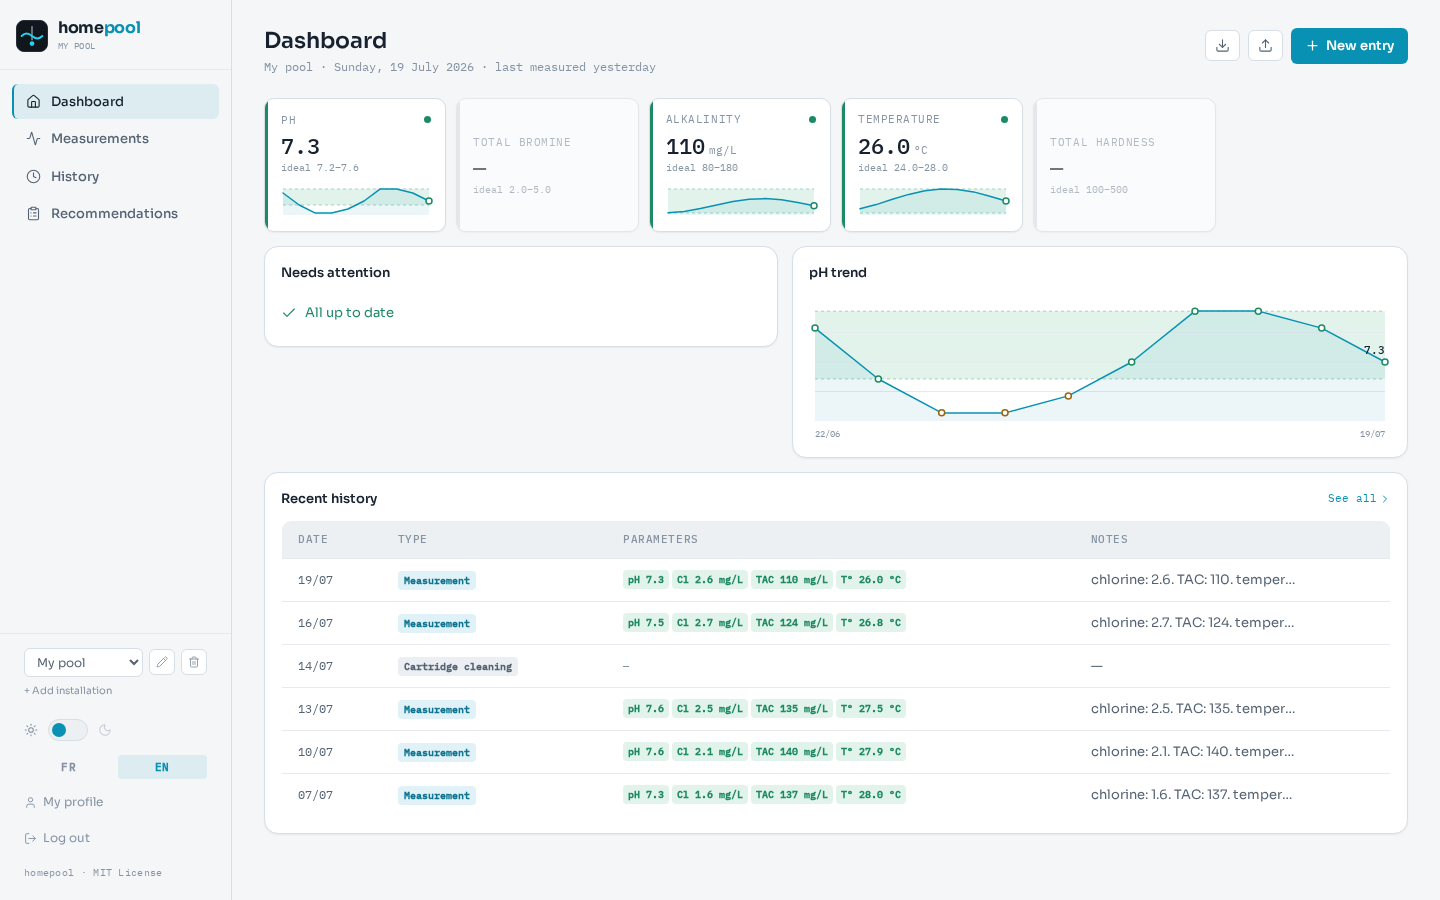
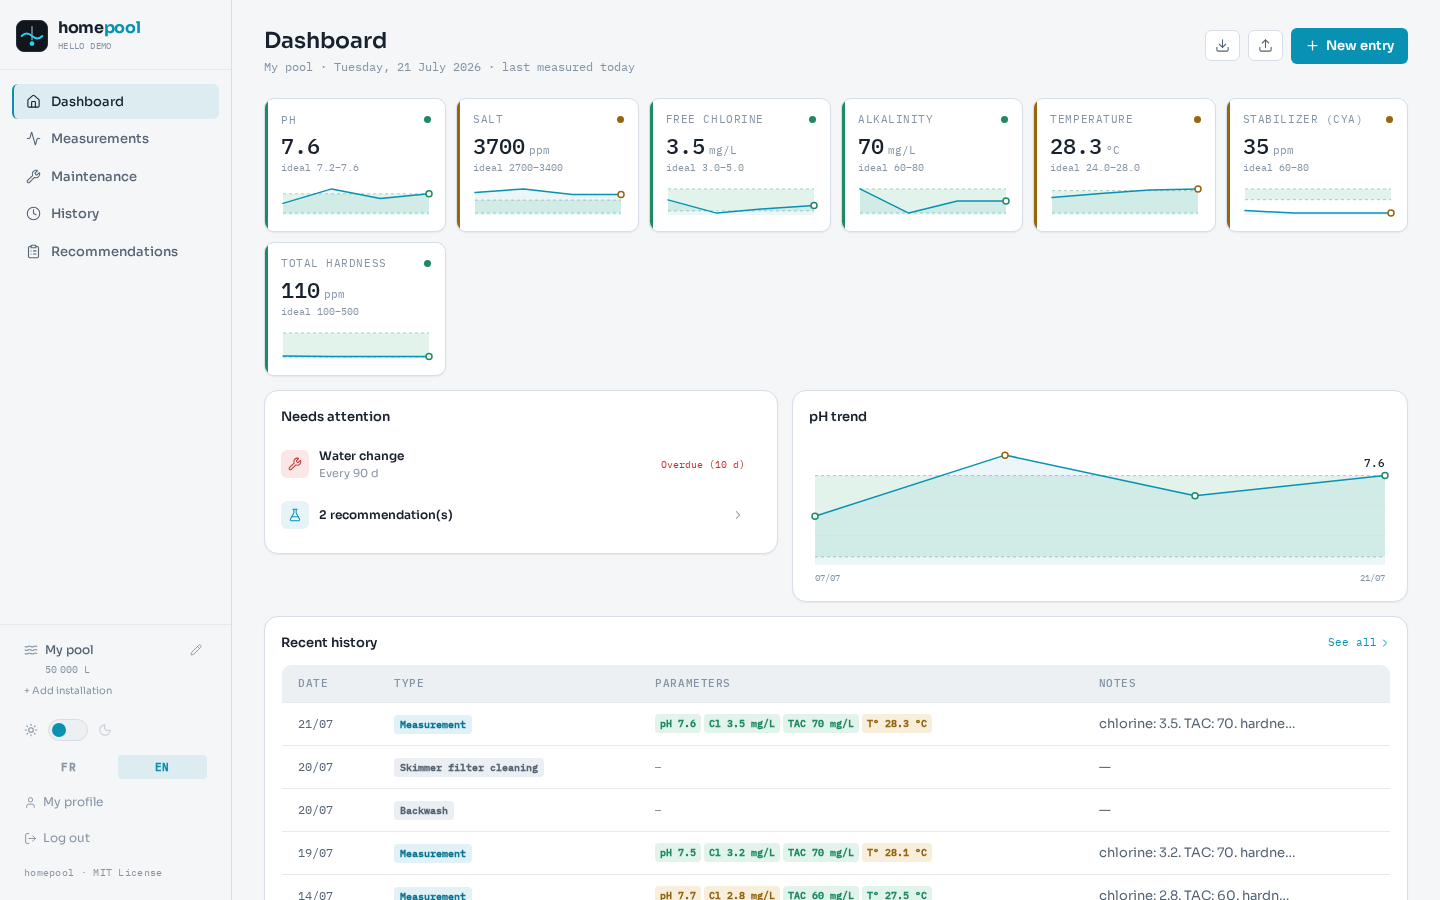
Harden HA card registration (#38) + refresh README screenshots (#39)
* Harden HA card registration (#38) + refresh README screenshots

Fix #38: the intermittent "configuration error" that hits every homepool
Lovelace card at once and clears on refresh. All four custom elements are
defined by one async ES module HA injects globally; guard each
customElements.define against re-registration and de-dupe the card-picker
entries so a re-evaluated/re-injected module never throws
"already been used" (which would abort the tail of the module) or add
duplicate picker rows. (The residual timing is HA's own render/whenDefined
self-heal, which the card can't fully control.)

Screenshots: regenerate the README web-app screenshots via Playwright and
add the new Maintenance and Recommendations pages, plus the two Home
Assistant card screenshots (main + history) in the integration section.
Standardize on dark theme with a light Dashboard reference; drop the
superseded -light shots.

* chore: release v1.4.1

---------

diff --git a/custom_components/homepool/frontend/homepool-card.js b/custom_components/homepool/frontend/homepool-card.js
@@ -1468,19 +1468,31 @@ class HomepoolHistoryCardEditor extends HTMLElement {
 HomepoolCard.getConfigElement = () => document.createElement('homepool-card-editor');
 HomepoolHistoryCard.getConfigElement = () => document.createElement('homepool-history-card-editor');
 
-customElements.define('homepool-card', HomepoolCard);
-customElements.define('homepool-card-editor', HomepoolCardEditor);
-customElements.define('homepool-history-card', HomepoolHistoryCard);
-customElements.define('homepool-history-card-editor', HomepoolHistoryCardEditor);
+// Register defensively: HA injects this module globally (add_extra_js_url), and it can be
+// evaluated more than once (frontend reloads, re-added resources). A bare customElements.define
+// on an already-registered tag throws "Failed to execute 'define'… already used", which would
+// abort the rest of this block and leave registration half-done. Guarding each define keeps a
+// re-run a harmless no-op. (This does not eliminate HA's own render/whenDefined race — where a
+// dashboard paints before this module has executed — which is timing on the HA side.)
+const defineCard = (tag, cls) => {
+  if (!customElements.get(tag)) customElements.define(tag, cls);
+};
+defineCard('homepool-card', HomepoolCard);
+defineCard('homepool-card-editor', HomepoolCardEditor);
+defineCard('homepool-history-card', HomepoolHistoryCard);
+defineCard('homepool-history-card-editor', HomepoolHistoryCardEditor);
 
 window.customCards = window.customCards || [];
-window.customCards.push({
+const registerCard = (entry) => {
+  if (!window.customCards.some((c) => c.type === entry.type)) window.customCards.push(entry);
+};
+registerCard({
   type: 'homepool-card',
   name: 'homepool',
   description: 'Water chemistry status board for a homepool installation.',
   preview: false,
 });
-window.customCards.push({
+registerCard({
   type: 'homepool-history-card',
   name: 'homepool history',
   description: 'Recent measurements, treatments and maintenance for a homepool installation.',

diff --git a/README.md b/README.md
@@ -60,9 +60,13 @@ Designed for self-hosters and the Home Assistant crowd who want full control wit
 |---|---|
 | ![Dashboard dark](docs/screenshots/dashboard-dark.png) | ![Dashboard light](docs/screenshots/dashboard-light.png) |
 
-| Measurements | History |
+| Measurements | Maintenance |
 |---|---|
-| ![Measurements](docs/screenshots/measurements-light.png) | ![History](docs/screenshots/history-light.png) |
+| ![Measurements](docs/screenshots/measurements-dark.png) | ![Maintenance](docs/screenshots/maintenance-dark.png) |
+
+| History | Recommendations |
+|---|---|
+| ![History](docs/screenshots/history-dark.png) | ![Recommendations](docs/screenshots/recommendations-dark.png) |
 
 | New entry — AquaChek strip |
 |---|
@@ -134,6 +138,12 @@ A hand-written Lovelace card ships with the integration (no separate frontend in
 
 Each parameter tile is interactive: **tap the tile** to open the log-measurement popup focused on that field, or **tap the 📈 icon** to open Home Assistant's native more-info dialog (history graph) for that sensor. Pressing a maintenance button flashes a "✓ Logged" confirmation.
 
+<div align="center">
+
+<img src="docs/screenshots/hass-main-card.png" alt="homepool card in Home Assistant" width="360">
+
+</div>
+
 Add it from the card picker (search "homepool") or with YAML:
 
 ```yaml
@@ -154,6 +164,12 @@ Prefer a more configurable, general-purpose pool widget instead? The [Pool Monit
 > Dosage recommendations are web-app-only for now — the card doesn't surface them yet.
 
 **History card.** A companion `homepool-history-card` renders a compact, read-only table of recent activity — measurements, treatments and maintenance — sourced from the `sensor.<prefix>_history` entity the integration exposes. Set `max_items` to cap the rows, and optionally filter with `types`:
+
+<div align="center">
+
+<img src="docs/screenshots/hass-history-card.png" alt="homepool history card in Home Assistant" width="360">
+
+</div>
 
 ```yaml
 type: custom:homepool-history-card

diff --git a/CHANGELOG.md b/CHANGELOG.md
@@ -6,6 +6,8 @@ The format is based on [Keep a Changelog](https://keepachangelog.com/en/1.1.0/).
 
 ## [Unreleased]
 
+## [1.4.1] - 2026-07-21
+
 ## [1.4.0] - 2026-07-21
 
 ## [1.3.0] - 2026-07-21